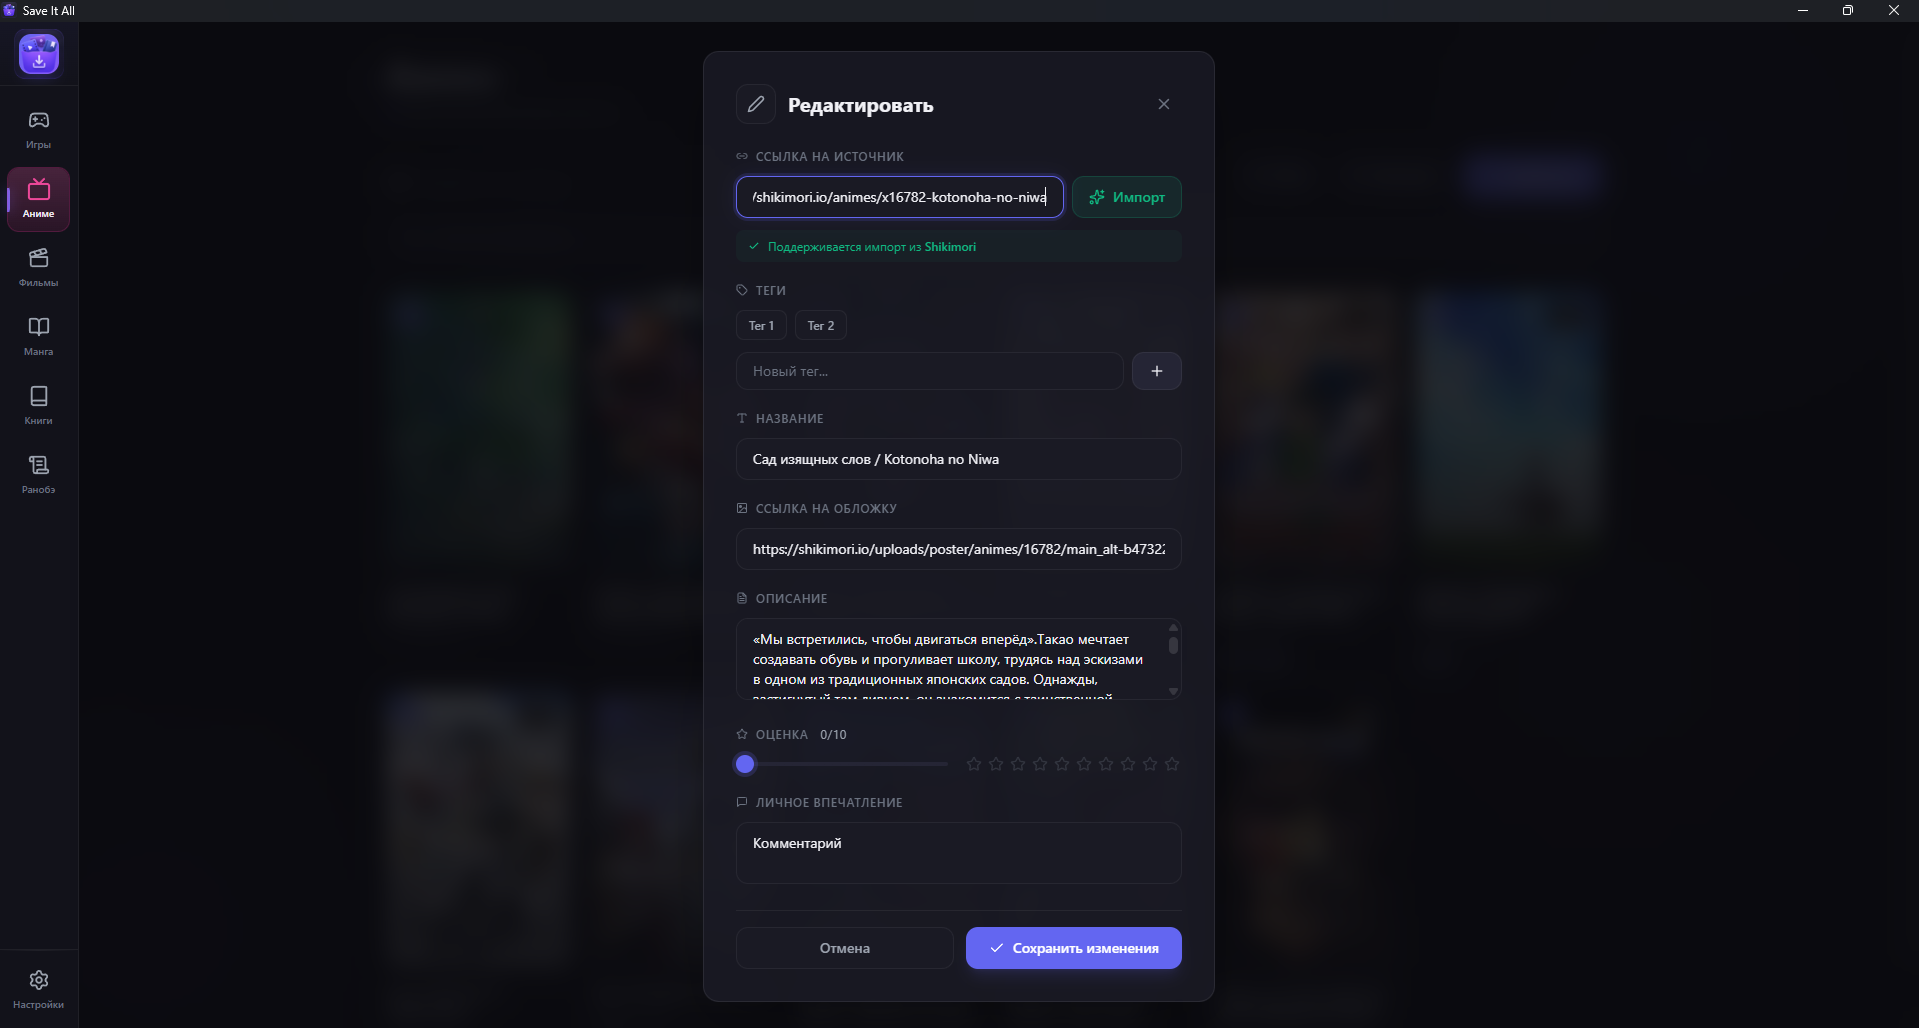
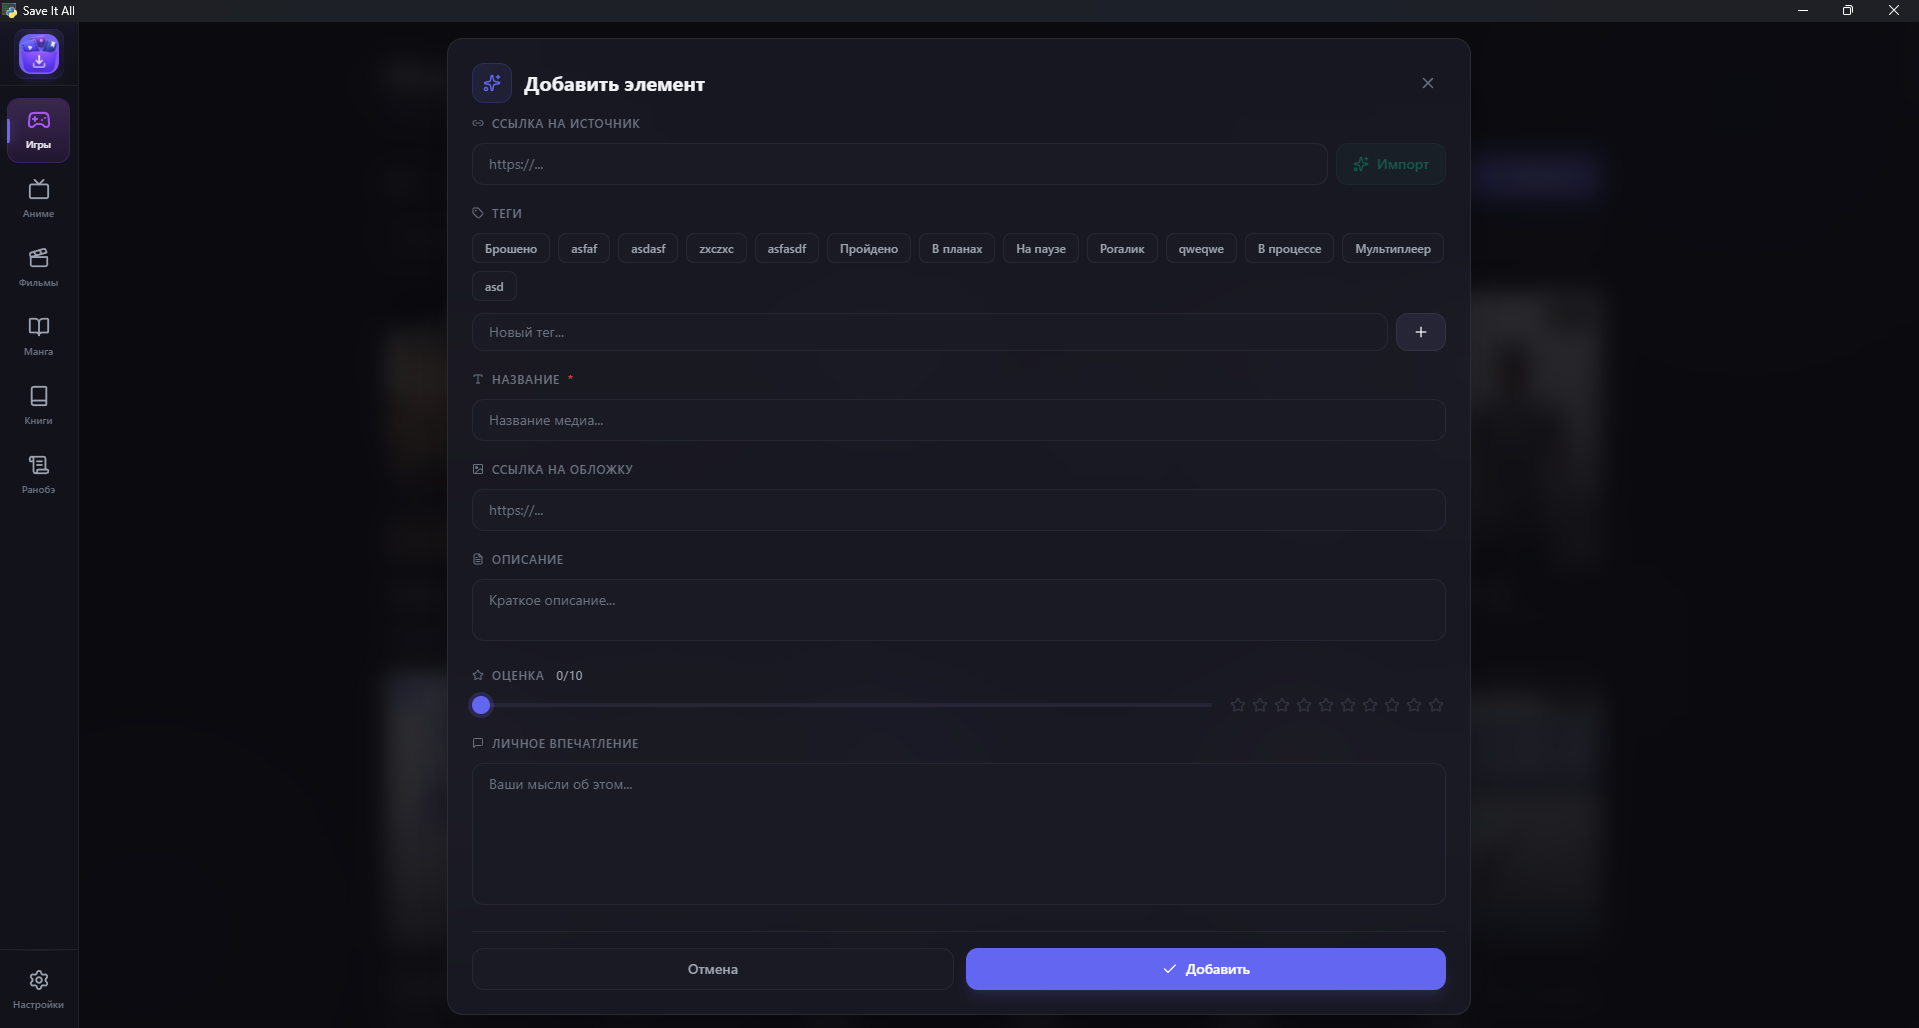
update readme

diff --git a/README.md b/README.md
@@ -9,6 +9,8 @@
 - **Быстрое добавление** — вставь ссылку с поддерживаемого сайта, данные подтянутся автоматически
 - **Теги и фильтры** — сортируй и ищи по тегам, рейтингу, тексту внутри карточки
 - **Скриншот карточек**
+- **Экспорт/Импорт** - экспортируй данные из sqlite базы данных в json для простого переноса данных
+- **Лёгкое добавление новых парсеров** - все парсеры удобно хранятся в `frontend\src\lib\parsers`
 
 ## Поддерживаемые сайты
 
@@ -17,7 +19,7 @@
 | [Shikimori](https://shikimori.io) | Аниме, манга, ранобэ |
 | [Steam](https://store.steampowered.com) | Игры |
 | [Кинопоиск](https://www.kinopoisk.ru) | Фильмы, сериалы |
-| [MangaLib / RanobeLib / HentaiLib / AnimeLib](https://mangalib.org) | Манга, ранобэ, аниме |
+| [MangaLib / RanobeLib / HentaiLib / AnimeLib](https://mangalib.me) | Манга, ранобэ, аниме |
 | [Remanga](https://remanga.org) | Манга |
 | [ЛитРес](https://www.litres.ru) | Книги, аудиокниги |
 | [Читай-город](https://www.chitai-gorod.ru) | Книги |